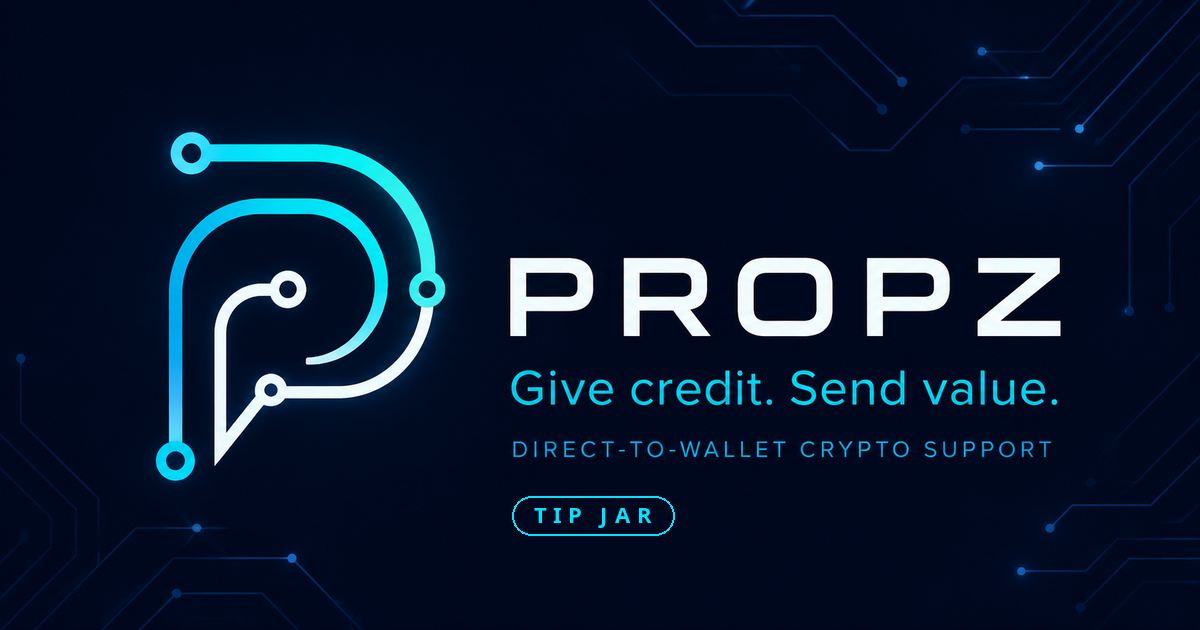
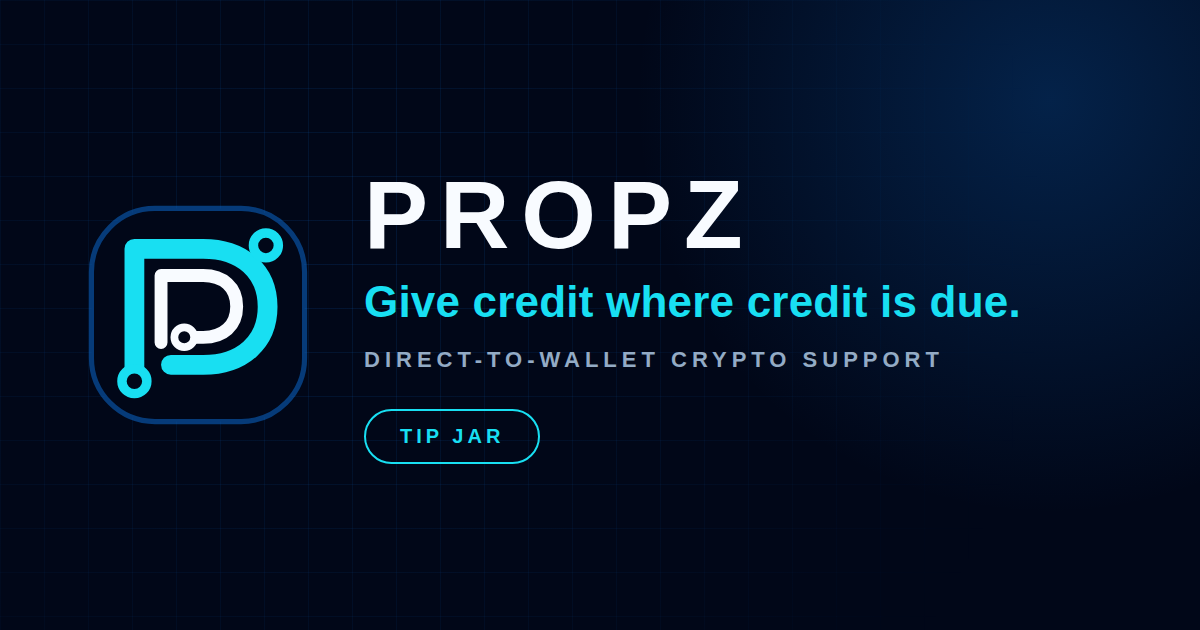
Update tagline: "Give credit. Send value." → "Give credit where credit is due."
Updates the tagline everywhere it appears: page title/OG/Twitter metadata
in app/layout.tsx, README.md, the rendered-html test assertion, and the
OG social-share image (regenerated to match the existing design with the
new copy).

Claude-Session: https://claude.ai/code/session_01Hvv7KxUUH7Ej9Fw2ugaaD8

diff --git a/app/layout.tsx b/app/layout.tsx
@@ -3,19 +3,19 @@ import "./globals.css";
 
 export const metadata: Metadata = {
   metadataBase: new URL("https://propz.saylorinnovations.com"),
-  title: "Propz — Give credit. Send value.",
+  title: "Propz — Give credit where credit is due.",
   description:
     "Add a crypto tip jar to your website or content. Create a floating button, embedded card, or shareable link to receive SOL and USDC directly.",
   openGraph: {
-    title: "Propz — Give credit. Send value.",
+    title: "Propz — Give credit where credit is due.",
     description:
       "Your content. Your tip jar. Add a floating button, embed a card, or share a link to receive SOL and USDC.",
     type: "website",
-    images: [{ url: "/og.png", width: 1200, height: 630, alt: "Propz — Give credit. Send value." }],
+    images: [{ url: "/og.png", width: 1200, height: 630, alt: "Propz — Give credit where credit is due." }],
   },
   twitter: {
     card: "summary_large_image",
-    title: "Propz — Give credit. Send value.",
+    title: "Propz — Give credit where credit is due.",
     description:
       "Your content. Your tip jar. Add a floating button, embed a card, or share a link to receive SOL and USDC.",
     images: ["/og.png"],

diff --git a/README.md b/README.md
@@ -1,6 +1,6 @@
 # Propz
 
-**Give credit. Send value.**
+**Give credit where credit is due.**
 
 Propz is a non-custodial crypto tip jar. Anyone — a creator, streamer, builder,
 gamer, or a cause on a fundraising page — publishes a Propz card once, then
@@ -8,7 +8,7 @@ drops it *anywhere they already have a presence*: a bio link, a stream
 overlay, a website, a video description, a GoFundMe post, a printed QR code.
 Supporters pick an amount, approve one transaction in their own wallet, and
 the funds move straight from supporter to recipient on Solana or Base. Propz
-never holds the money — it only writes a disclosed **0.08% platform fee**
+never holds the money — it only writes a disclosed **1% platform fee**
 into the same transaction the supporter signs and sees before approving.
 
 No signup, no dashboard, no custody. It's a link, an embed, or a QR code
@@ -35,12 +35,12 @@ The split is computed in `app/lib/fee.ts` (`splitUnits`) and always rounds
 the fee down, landing at zero on very small tips rather than ever asking for
 more than the number shown on the button.
 
-## The 0.08% fee, and why it's hardcoded
+## The 1% fee, and why it's hardcoded
 
 `PROPZ_FEE_SOLANA` and `PROPZ_FEE_BASE` in `app/lib/fee.ts` are fixed
 addresses, not environment variables. That's intentional: Propz is free to
 download, self-host, and modify, but every instance that keeps those
-constants routes its disclosed 0.08% fee back to the Propz operator
+constants routes its disclosed 1% fee back to the Propz operator
 (Saylor Innovations) — that's how the project stays funded. The fee is never
 hidden: it's shown on the tip button total, the jar page trust badges, the
 Studio's publish panel, and the `platformFeeBps` field of the manifest JSON.
@@ -134,7 +134,7 @@ empty and D1 is optional infrastructure this app doesn't currently need.
 | `app/jar/page.tsx` | Full-page hosted tip card (`/jar`) |
 | `app/embed/page.tsx` | Compact `<iframe>`-friendly card (`/embed`) |
 | `app/components/tipjar.tsx` | The tip card UI + wallet payment flow |
-| `app/lib/fee.ts` | The 0.08% split math and fee wallet addresses |
+| `app/lib/fee.ts` | The 1% split math and fee wallet addresses |
 | `app/lib/tip.ts` | Config parsing, address validation, payment URI builders |
 | `app/api/pay/solana/route.ts` | Solana Pay transaction-request endpoint |
 | `app/api/manifest/route.ts` | Machine-readable payment manifest (`/api/manifest`) |
@@ -163,5 +163,5 @@ against `start` with none of them reproducing it.
 
 ## License
 
-MIT — see [`LICENSE`](./LICENSE). See "The 0.08% fee, and why it's
+MIT — see [`LICENSE`](./LICENSE). See "The 1% fee, and why it's
 hardcoded" above for the one thing worth knowing before you fork it.
